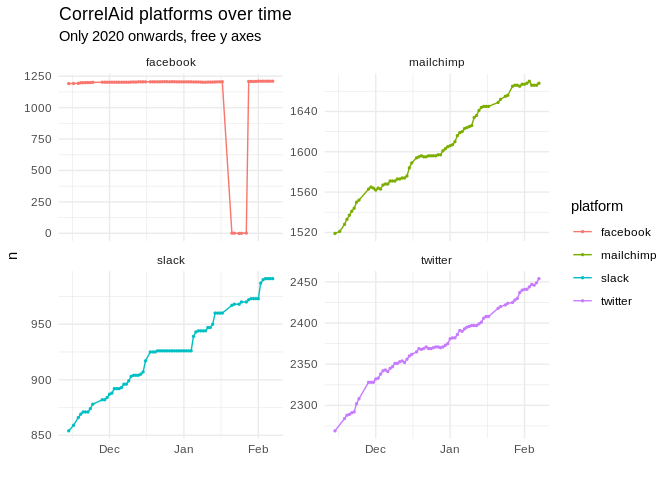
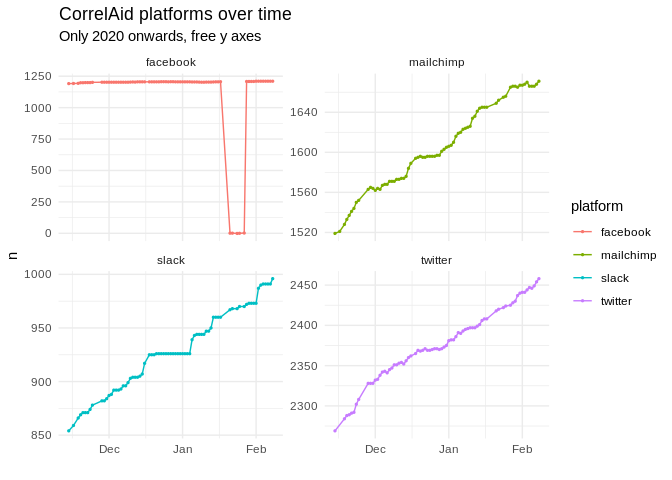
🤖 CRON - update daily data

diff --git a/README.md b/README.md
@@ -25,7 +25,7 @@ count and general network data on a daily basis using
 
 ### Plots
 
-*last updated*: 2021-02-07
+*last updated*: 2021-02-08
 23:50:13
 
 ![](README_files/figure-gfm/plot-alltime-1.png)<!-- -->
